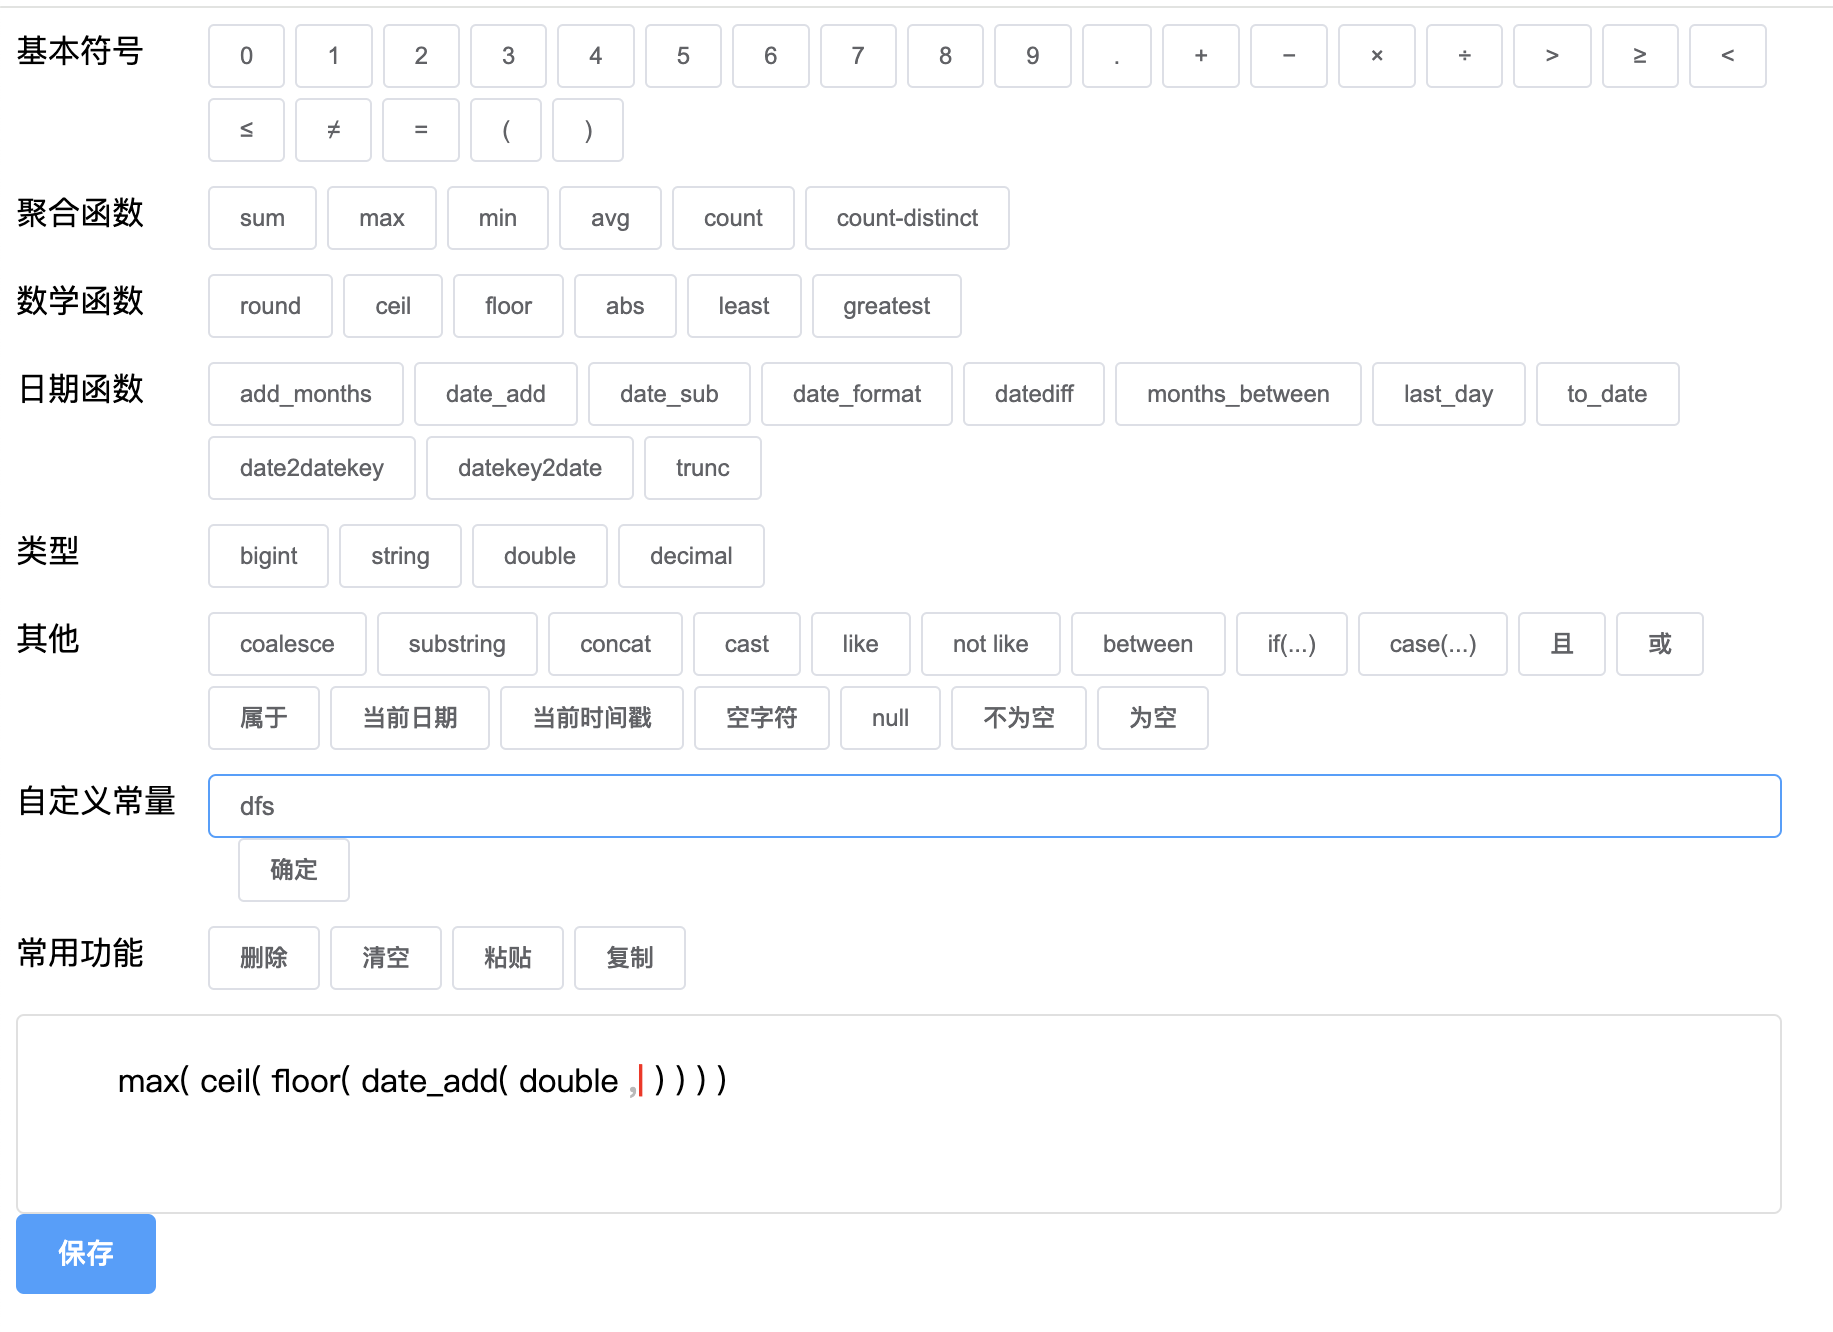
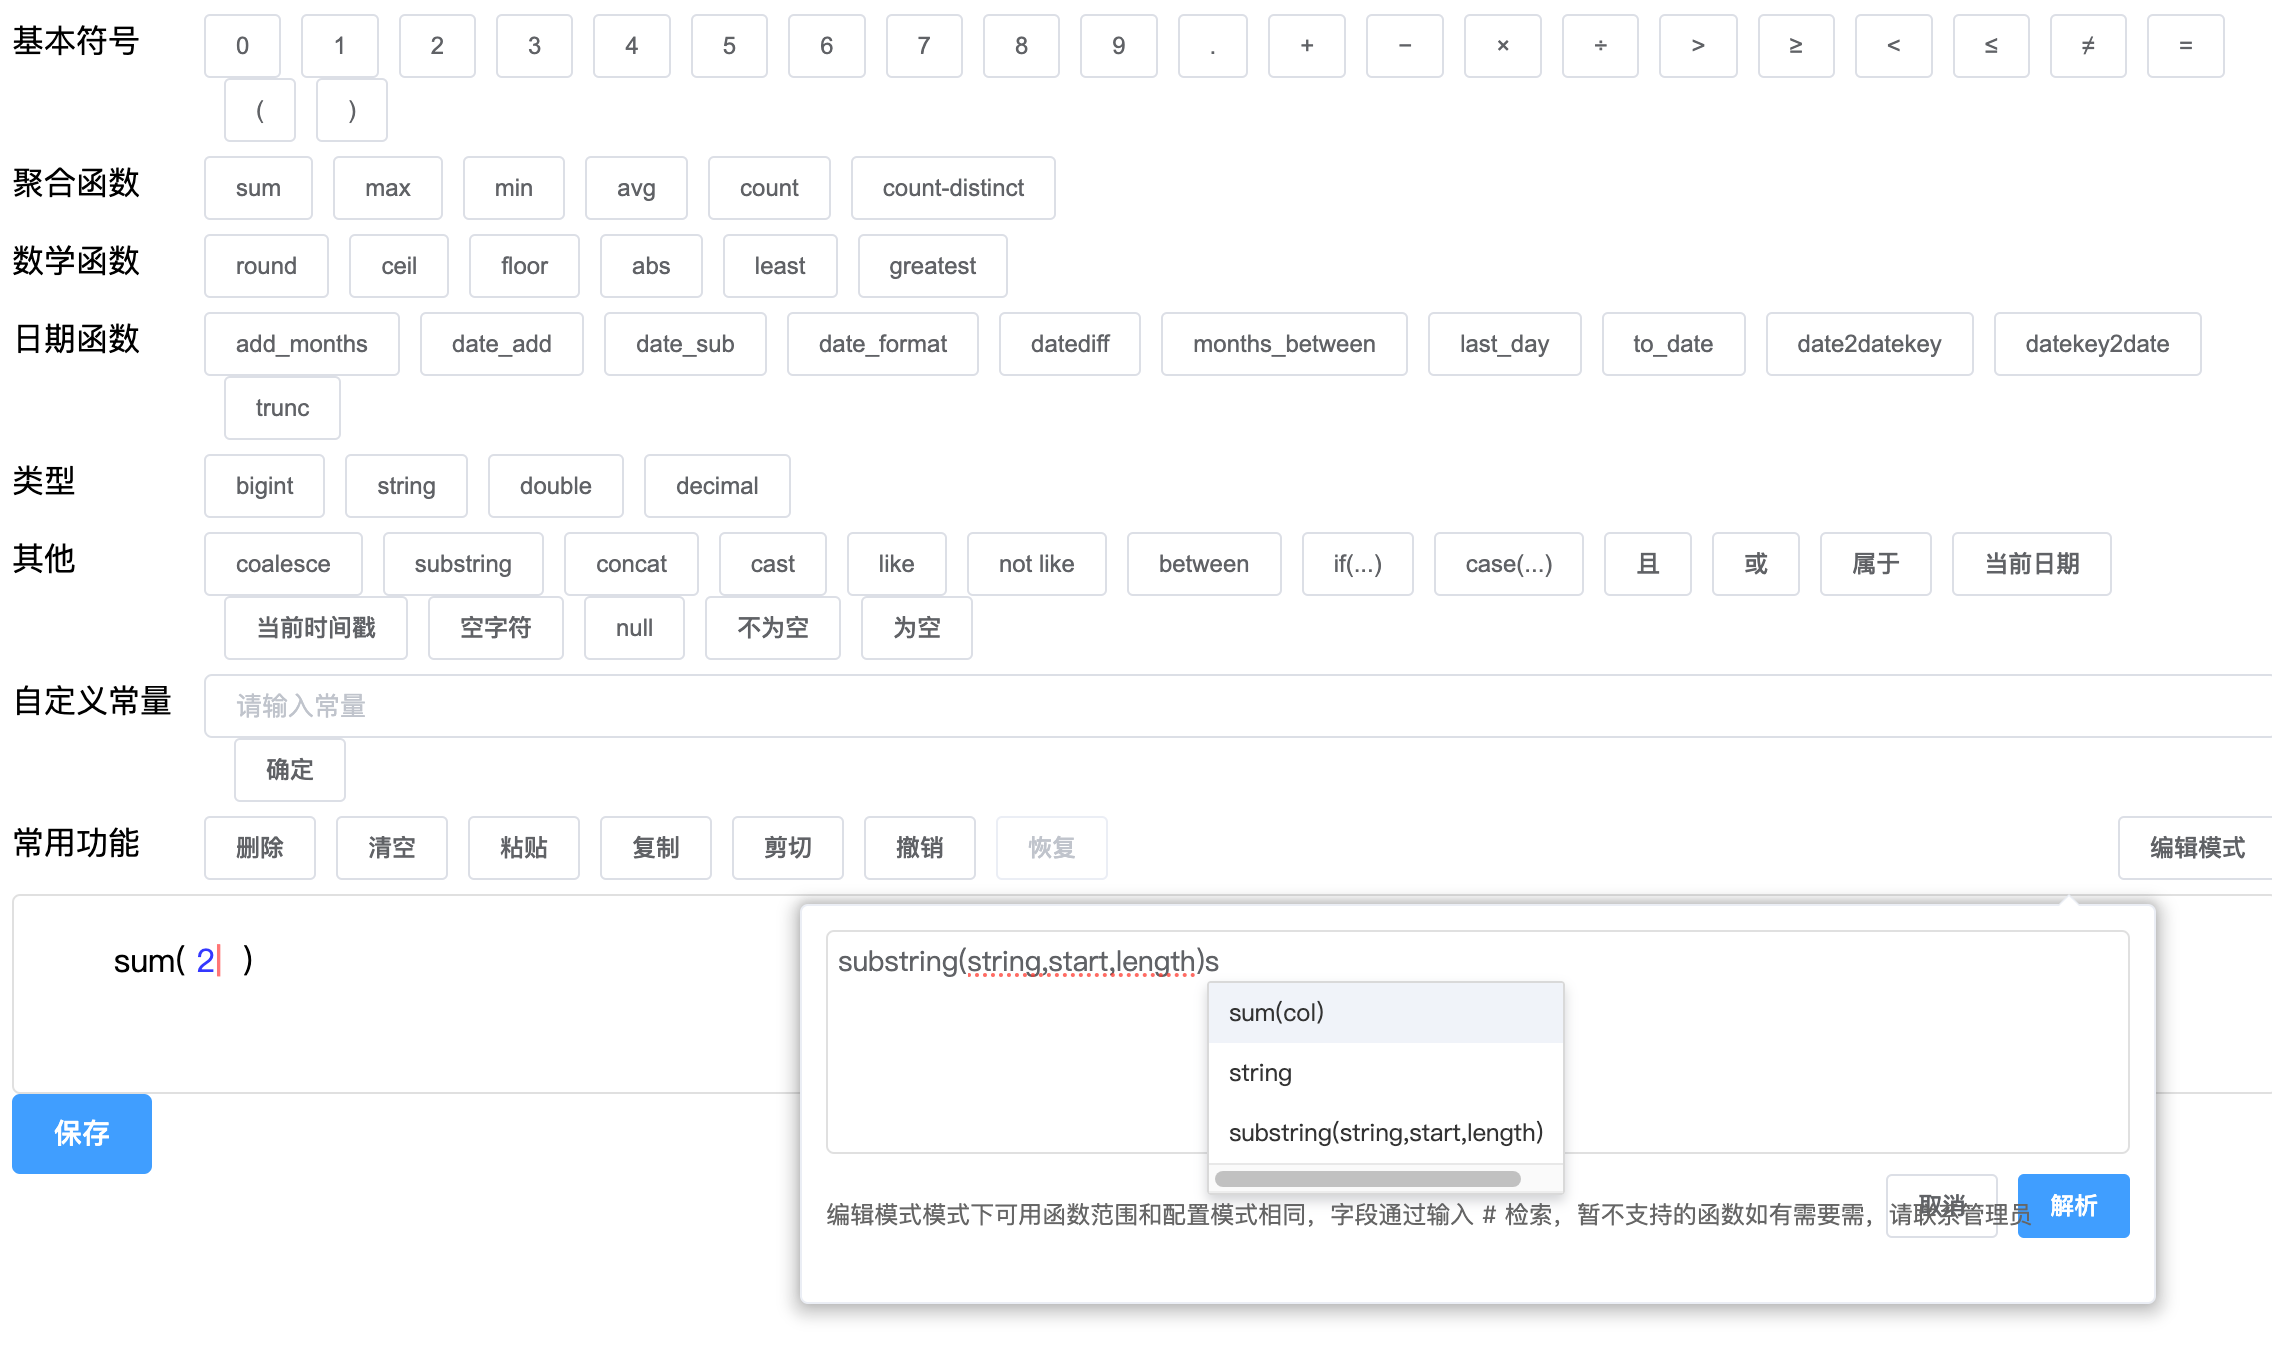
feat: 复制粘贴

diff --git a/src/components/editor/Editor.vue b/src/components/editor/Editor.vue
@@ -110,20 +110,17 @@
             <el-popover 
               v-if="visible"
               popper-class="popover-sql-text" 
-              :show-arrow="false" 
-              :visible="previewSqlTextVisible" 
               trigger="click" 
               placement="bottom" 
             >
               <el-button 
+                slot="reference"
                 size="small" 
-                type="primary" 
-                v-show="editable" 
                 @click="handlePreviewSqlText"
               >
                 编辑模式
               </el-button>
-              <div slot="content" class="popover-sql-text-content" >
+              <div  class="popover-sql-text-content" >
                 <div class="editor-text-formula" id="sqlTextContainer" >
                   <FormulaTextEditor
                     ref="enterableEditBox"
@@ -141,7 +138,7 @@
                 <div class="form-btn-group mt10 mb20 tr gutter">
                   <p class="popover-sql-text-desc">编辑模式模式下可用函数范围和配置模式相同，字段通过输入 # 检索，暂不支持的函数如有需要需，请联系管理员</p>
                   <el-button size="small" @click="handleClosePopoverSqlText" >取消</el-button>
-                  <!-- <el-button size="small" type="primary" @click="handleText2Node">解析</el-button> -->
+                  <el-button size="small" type="primary" @click="handleText2Node">解析</el-button>
                 </div>
               </div>
             </el-popover>
@@ -204,8 +201,8 @@ export default {
     // },
     fieldType: { type: String }, //quota, attribute, field
     editable: { type: Boolean, default: true },
-    visible: { type: Boolean },
-    fieldListAvailable: { type: Array}
+    // visible: { type: Boolean, default: true },
+    // fieldListAvailable: { type: Array}
 
   },
   computed: {
@@ -253,6 +250,8 @@ export default {
   },
   data() {
     return {
+      visible: true,
+      fieldListAvailable: [],
       cursor: new Cursor(this.rootNode),
       hoverNode: null,
 
@@ -303,21 +302,22 @@ export default {
       return result;
     },
     async node2Text() {
-      const result = await this.$API.manage.node2text({
-        fieldConfig: {
-          type: 'nodeList',
-          nodes: formatFormula(this.rootNode.children)
-        }
-      })
-      if (result.code === SUCCESS_CODE) {
-        const sqlText = result.data.fieldText;
-        const fieldStore = useFieldStore();
-        const { fieldList } = fieldStore;
-        const autoReplace = true;
-        this.sqlHtml = parseFormulaText(sqlText, this.fieldListAvailable, autoReplace);
+      console.log('note 2 text :>> ');
+      // const result = await this.$API.manage.node2text({
+      //   fieldConfig: {
+      //     type: 'nodeList',
+      //     nodes: formatFormula(this.rootNode.children)
+      //   }
+      // })
+      // if (result.code === SUCCESS_CODE) {
+      //   const sqlText = result.data.fieldText;
+      //   const fieldStore = useFieldStore();
+      //   const { fieldList } = fieldStore;
+      //   const autoReplace = true;
+      //   this.sqlHtml = parseFormulaText(sqlText, this.fieldListAvailable, autoReplace);
         
-      }
-      return result;
+      // }
+      // return result;
     },
     handlePreviewSqlText() {
       if (!this.previewSqlTextVisible) {
@@ -462,7 +462,7 @@ export default {
         if (this._validClipboardNode(clipboardText)) { //验证剪贴板文字是否合法的节点对象json字符串
           this.copiedNode = JSON.parse(clipboardText);
           const copiedNodeJson = JSON.parse(clipboardText);
-          console.log('this.fieldListAvailable :>> ', this.fieldListAvailable);
+          console.log('this.fieldListAvailable :>> ', JSON.stringify(this.fieldListAvailable));
           if (this.copiedNode.name === 'root') {
             this.cursor.patchInsertNodeOfPaste(copiedNodeJson.children, this.fieldListAvailable)
           } else {
@@ -691,6 +691,34 @@ export default {
   position: absolute;
   font-size: 12px;
   color: #666;
+}
+.form-btn-group{
+  &.mt20{
+    margin-top: 20px;
+  }
+  &.mt10{
+    margin-top: 10px;
+  }
+  &.mb20{
+    margin-bottom: 20px;
+  }
+  &.pr10{
+    padding-right: 10px;
+  }
+  &.center, &.tc{
+    text-align: center;
+  }
+  &.tr{
+    text-align: right;
+  }
+  &.pl100{
+    padding-left: 100px;
+  }
+  &.gutter{
+    >.mtd-btn + .mtd-btn{
+      margin-left: 15px;
+    }
+  }
 }
 </style>
 <style lang="less" scoped>

diff --git a/src/views/Home.vue b/src/views/Home.vue
@@ -2,10 +2,10 @@
   <div class="home">
     <!-- <img alt="Vue logo" src="../assets/logo.png"> -->
     <el-row :gutter="10">
-      <el-col :span="12">
-        <Editor ref="editor"/>
+      <el-col :span="24">
+        <Editor ref="editor" :editable="true"  />
       </el-col>
-      <el-col :span="6"></el-col>
+      <!-- <el-col :span="6"></el-col> -->
     </el-row>
     <el-row :gutter="10">
       <el-col :span="6"><el-button type="primary" @click="save">保存</el-button></el-col>

diff --git a/src/main.js b/src/main.js
@@ -2,9 +2,14 @@ import Vue from "vue";
 import App from "./App.vue";
 import router from "./router";
 import ElementUI from 'element-ui';
+
+//剪贴板
+import VueClipboard from 'vue-clipboard2'
 import "element-ui/lib/theme-chalk/index.css";
 
 import { createPinia, PiniaVuePlugin } from "pinia";
+
+Vue.use(VueClipboard)
 
 Vue.use(PiniaVuePlugin);
 const pinia = createPinia();
